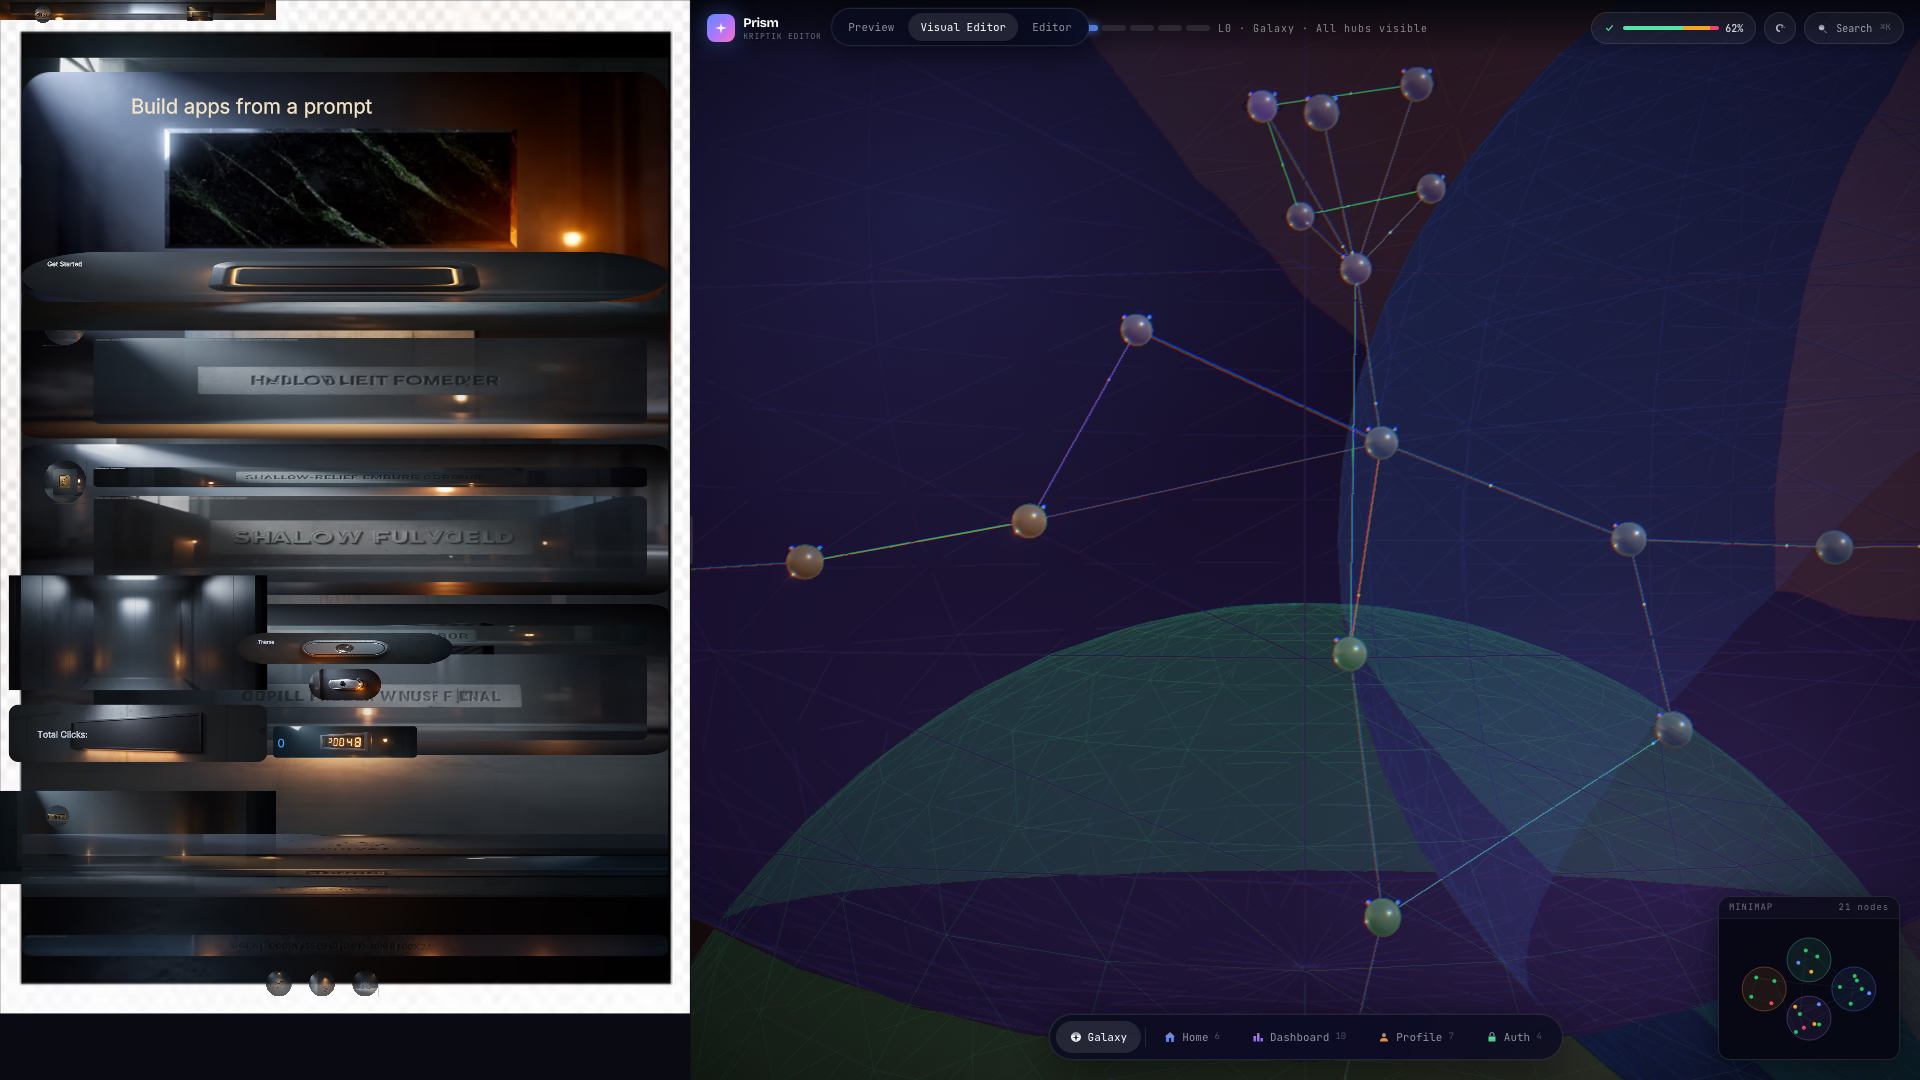
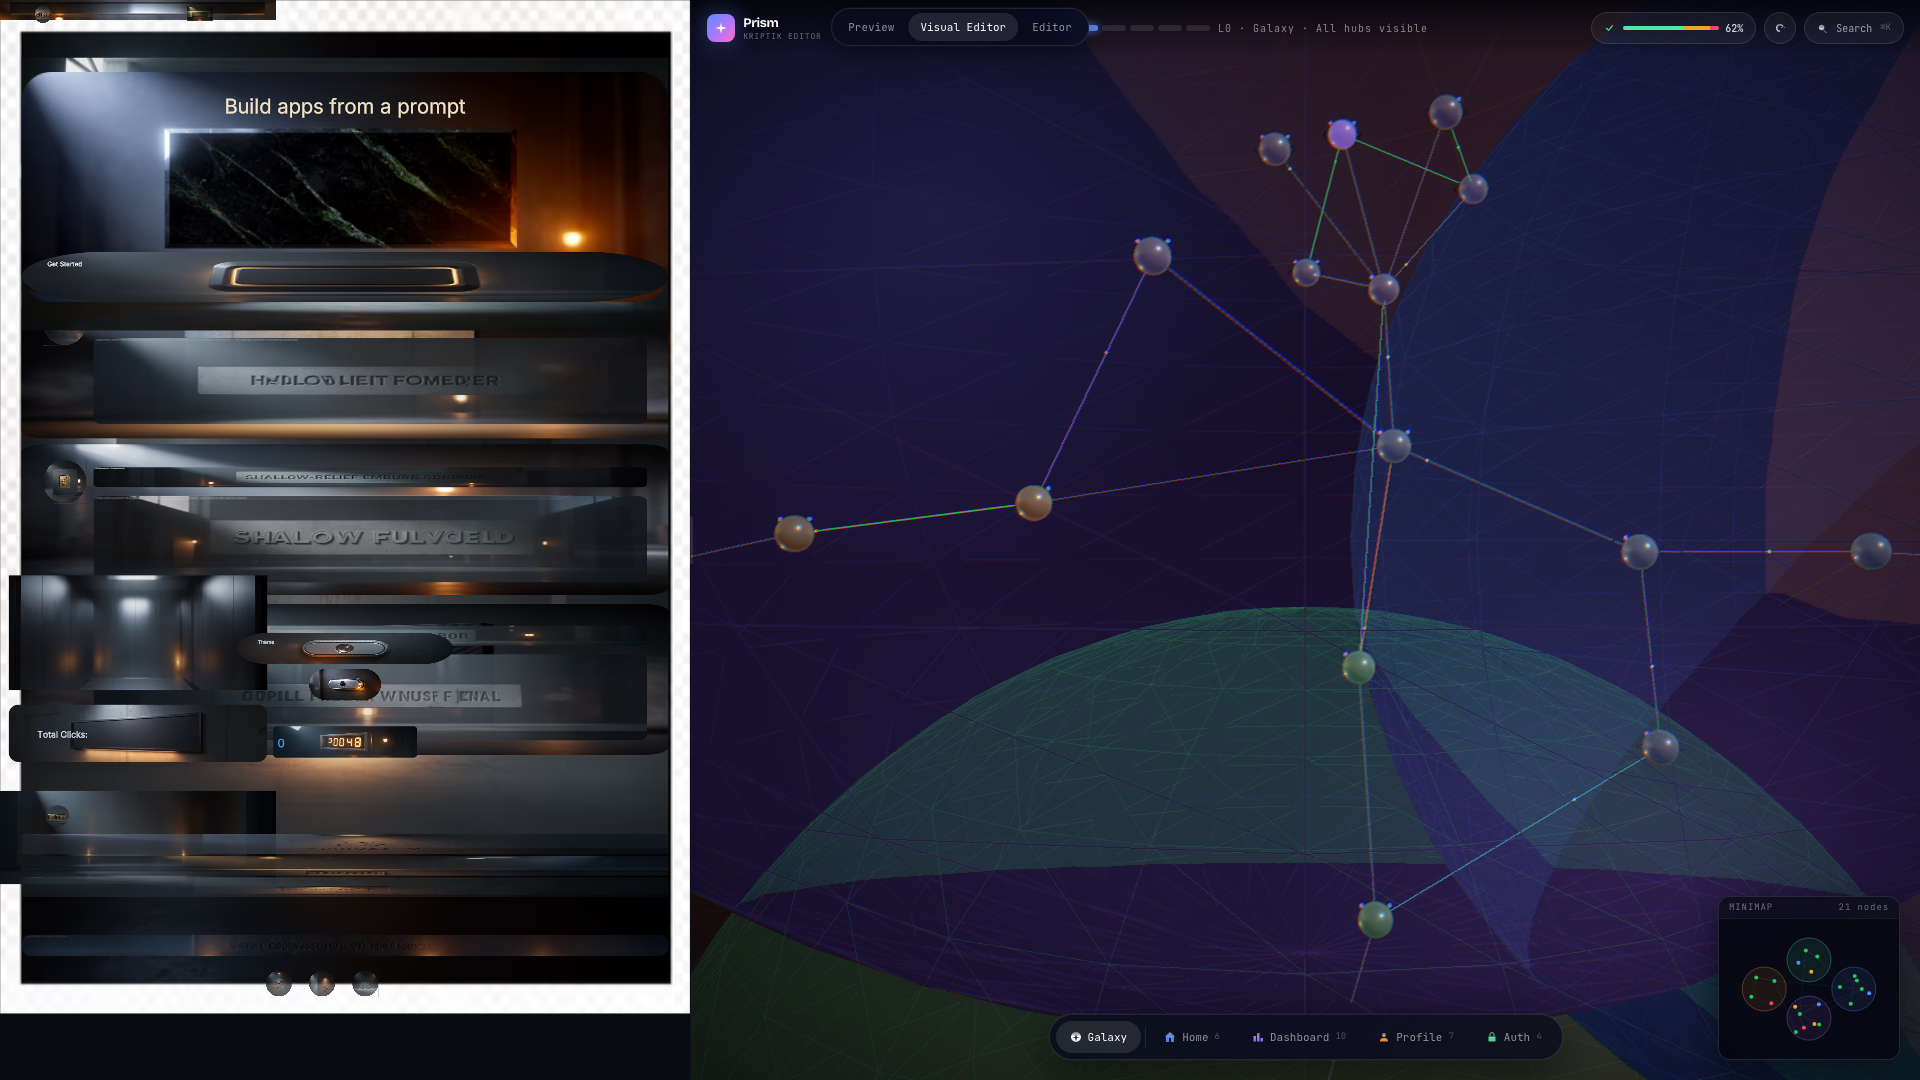
prism-mock: center-anchor MSDF text against transform.width
Text positions were authored against each node's base transform (e.g.
hero-card-headline-text was 1280-wide; text anchor=center at x=640).
When mobile override widens to 1800, a center-anchored text at x=640
lands 35% from left, not dead-center. Remap anchor='center' to
transform.width/2 so 'centered' always means centered against the
currently-active container width. Same logic for right-anchored text.

diff --git a/kid-kode-landing/src/lib/prism/mock-app-source/nodes/static-text.js b/kid-kode-landing/src/lib/prism/mock-app-source/nodes/static-text.js
@@ -27,12 +27,16 @@ export function createNode(ctx) {
   for (const t of msdfEntries) {
     const pos = t.position ?? { x: 0, y: 0, anchor: 'left' };
     const typo = t.typography ?? {};
-    // The design coord-space assumes the base image is at its design width
-    // (e.g. 1280×96 for hero-card-headline-text). Our sprite IS scaled to
-    // transform.width × transform.height which equals design size. The
-    // BitmapText renders at its natural glyph size from the atlas MSDF
-    // font, so position + size numbers are in design-space and land on
-    // the sprite correctly.
+    // Text positions in the graph are authored against each node's base
+    // `transform` (e.g. 1280-wide hero-card-headline-text). When the active
+    // breakpoint's transform widens (mobile = 1800), a center-anchored text
+    // authored at x=640 sits 35% from left instead of dead-center. Remap
+    // center-anchored text to transform.width/2 so "centered" always means
+    // centered against the currently-active container width.
+    const anchorX = pos.anchor === 'center' ? transform.width / 2
+                  : pos.anchor === 'right'  ? transform.width - (pos.x ?? 0)
+                                            : (pos.x ?? 0);
+    const anchorY = pos.y ?? transform.height / 2;
     const txt = new PIXI.BitmapText({
       text: t.text,
       style: {
@@ -46,7 +50,7 @@ export function createNode(ctx) {
     if (pos.anchor === 'center') txt.anchor?.set?.(0.5, 0.5);
     else if (pos.anchor === 'right') txt.anchor?.set?.(1, 0.5);
     else txt.anchor?.set?.(0, 0.5);
-    txt.position.set(pos.x, pos.y);
+    txt.position.set(anchorX, anchorY);
     container.addChild(txt);
   }
 
